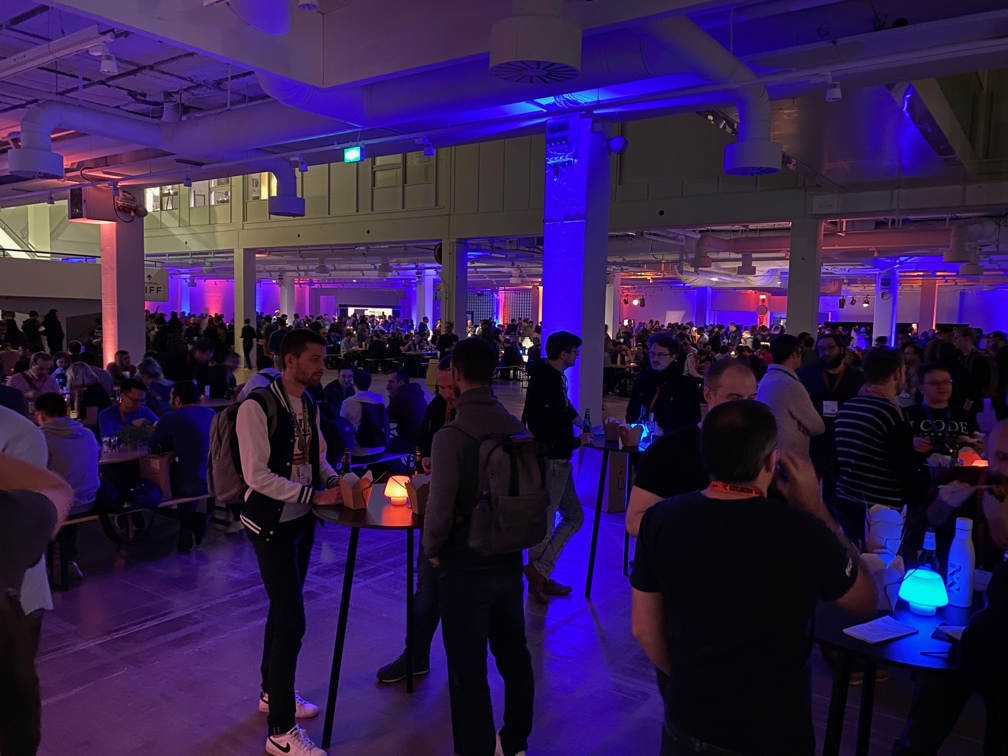
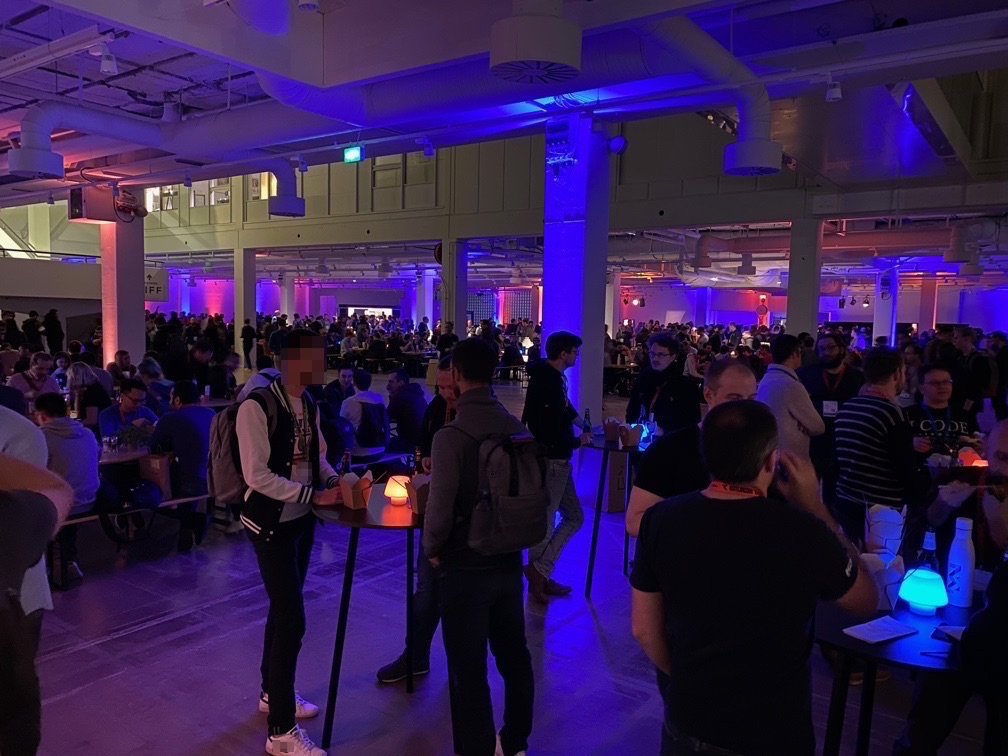
Fine-tuning drafts Added pictures Blurred green lanyard guy Added myself as article author Updated my author description

diff --git a/_posts/2019-12-05-KotlinConf-2019.md b/_posts/2019-12-05-KotlinConf-2019.md
@@ -1,6 +1,6 @@
 ---
 layout: post
-authors: [yannick_de_turck, pieter_van_hees]
+authors: [yannick_de_turck, jeroen_meys, pieter_van_hees]
 title: 'KotlinConf 2019'
 image: /img/kotlinconf-2019/kotlinconf-2019.png
 tags: [KotlinConf, Kotlin, Android, Coroutines, Conference, Serverless]
@@ -9,9 +9,9 @@ comments: true
 ---
 
 > KotlinConf is thé conference to visit if you're into Kotlin development.
-> JetBrains introduced KotlinConf the first time in 2017, in San Francisco with over 1.200 participants and 50 speakers.
-> In 2018 it was hosted in Amsterdam with 1.300 participants and 60 speakers.
-> This year the conference was to be hosted in Denmark's Copenhagen, in Bella Center. Scandinavia's largest conference center.
+> JetBrains introduced KotlinConf in 2017, in San Francisco with over 1.200 participants and 50 speakers.
+> In 2018 it took place in Amsterdam with 1.300 participants and 60 speakers.
+> This year the conference was hosted in Denmark's Copenhagen, at the Bella Center, Scandinavia's largest conference center.
 > Five colleagues of Ordina Belgium's JWorks unit were very enthusiastic to attend the conference for the first time.
 
 <img class="image fit" src="{{ '/img/kotlinconf-2019/kotlinconf-entrance.jpg' | prepend: site.baseurl }}" alt="JWorks @ KotlinConf" />
@@ -262,7 +262,7 @@ You will learn how to set up your IDE, starting your Ktor application, and routi
 ## New product announcement by [Hadi Hariri](https://twitter.com/hhariri){:target="_blank" rel="noopener noreferrer"}, [Maxim Shafirov](new-product-announcement-by-maxim-shafirov-and-maarten-balliauw){:target="_blank" rel="noopener noreferrer"} and [Maarten Balliauw](https://twitter.com/maartenballiauw){:target="_blank" rel="noopener noreferrer"}
 <img class="image fit" src="{{ '/img/kotlinconf-2019/special-announcement-1-intro.jpg' | prepend: site.baseurl }}" alt="Intro" />
 At the end of the first day it was time to announce JetBrains' newest product!
-<span class="image right"><img class="p-image" style="max-width: 200px" alt="Maxim Shafirov" src="/img/kotlinconf-2019/maxim-shafirov.png"></span>
+<span class="image right"><img class="p-image" style="max-width: 200px" alt="Maxim Shafirov" src="/img/kotlinconf-2019/maxim-shafirov.jpg"></span>
 
 Everything started with a ticket created 15 years ago by Maxim Shafirov, the CEO of JetBrains.
 The ticket was about a request to improve collaboration between teams.
@@ -515,32 +515,42 @@ For UI tests Selenium is used with [Allure](http://allure.qatools.ru){:target="_
 TODO
 
 ## What the F(p) is Kotlin? by [Shelby Cohen](https://twitter.com/shelbyc0hen){:target="_blank" rel="noopener noreferrer"} and [Katie Levy](https://twitter.com/klevy110){:target="_blank" rel="noopener noreferrer"}
+
+<img class="image fit" src="{{ '/img/kotlinconf-2019/fp_kotlin_intro.JPG' | prepend: site.baseurl }}" alt="Used libraries" />
+
+<span class="image left"><img class="p-image" style="max-width: 200px" alt="Shelby Cohen" src="/img/kotlinconf-2019/shelby_cohen.jpeg"></span>
+<span class="image right"><img class="p-image" style="max-width: 200px" alt="Katie Levy" src="/img/kotlinconf-2019/katie_levy.jpeg"></span>
+
 Shelby Cohen and Katie Levy shared with us the story of how they managed to introduce functional programming via Kotlin into their organisation.
 
-They presented an 8-step guide on how to influence colleagues and thus Intuit to adopt Kotlin:
+<img class="image fit" src="{{ '/img/kotlinconf-2019/fp_kotlin_goal.JPG' | prepend: site.baseurl }}" alt="Used libraries" />
+
+They presented an 8-step guide on how to influence colleagues and your company to adopt Kotlin based on their experience at [Intuit](https://www.intuit.com/):
+
 ### Find your Passion
 Find something you want to be passionate about. In this case, it's Kotlin.
+
 ### Socialize
-Share you passion with other people.
+Share your passion with other people.
 Try to find some things you like about Kotlin - or anything new for that matter - and tell about it to your colleagues.
 Give some examples on how Kotlin removes ceremony compared to Java.
-Spread the word on how Kotlin has null-safety built in the type system.
+Spread the word on how Kotlin has null-safety built into the type system.
 
 ### Proof of Concept
-Don't only talk about Kotlin. Put the deed to the word and have something to show to your peers.
+Don't only talk about your passion. Do as you preach and have something to show to your peers.
 Develop a new feature and have it reviewed and discussed by the others.
-This should open the discussion with seniors developers and architects on whether the new technology should be embraced, put on hold or avoided.
-Having a POC and other developers on board tends to help this conversation.
+This should power the discussion with seniors developers and architects on whether the new technology should be adopted, put on hold or avoided.
+Having a [POC](https://en.wikipedia.org/wiki/Proof_of_concept) and other developers on board helps this conversation.
 
 ### Create a Plan
-The light is green and you are allowed to switch to Kotlin. 
-But other developers will still be hesitant in their Kotlin skills.
-Katie and Shelby put together a plan to migrate to make the switch from Java.
-The provided online training to teach the basic features of Kotlin.
-This increased the confidence and comfort of the team to make the jump.
+The light is green and you are allowed to make the switch. 
+But other developers will still feel insecure about their Kotlin skills.
+Katie and Shelby put together a plan to migrate from Java.
+The provided online training courses to teach some basic features which helped the onboarding.
+This increased the comfort and confidence of the team to make the jump.
 
 By setting goals, they were able to switch at a comfortable pace:
-- Starting with migrating and writing Kotlin tests which don't impact production code
+- Start with migrating and writing Kotlin tests which don't impact production code
 - Migrate easy wins such as data classes
 - Only then start adding new features in Kotlin
 
@@ -553,7 +563,7 @@ Try to provide feedback but watch out to not push learners too much.
 Some Kotlin code will look a bit Java-y at first, but this will improve overtime.
 
 ### Persuade with Data
-The other engineers on the team might not (yet) share your passion of Kotlin, so use some data to persuade them even more.
+The other engineers on the team might not (yet) share your passion for Kotlin, so use some data to persuade them even more.
 Some numbers that can be used:
 - [Kotlin uses 40% less lines of code than Java](https://kotlinlang.org/docs/reference/faq.html#what-advantages-does-kotlin-give-me-over-the-java-programming-language)
 - More concise code takes less time to write and less time to read
@@ -562,23 +572,26 @@ Some numbers that can be used:
 - [4th Most loved language on the 2019 Stack Overflow Developer Survey](https://insights.stackoverflow.com/survey/2019#technology-_-most-loved-dreaded-and-wanted-languages)
 
 ### Deconstruct Myths
-Even with all this data, there are still some myths that exist concerning Kotlin which you do not want to spread.
-Shelby and Katie broke down these myths in a [technical whitepaper](https://www.intuit.com/blog/uncategorized/kotlin-development-plan/) which they talk about on [Medium](https://medium.com/@srcohen1/kotlin-development-plan-5141087eaef0).
- 
+Even with all this data, there are still some myths that exist concerning the language which you do not want to see spread around.
+Shelby and Katie broke down these myths in a [technical white paper](https://www.intuit.com/blog/uncategorized/kotlin-development-plan/) which they talk about on [Medium](https://medium.com/@srcohen1/kotlin-development-plan-5141087eaef0).
+During the closing keynote of the conference, Max Shafirov (Jetbrains CEO) also proposed to make an official white paper to help companies migrate.
+
 ### Can't stop, Won't Stop
 At this point, the team was on board, the train started going full-speed. 
-This is when they started a learning community to get other teams on board and to spread the word.
+This is when they started a learning community to get other teams on board to spread the word.
 They would give presentations, do live coding and code reviews to help others get started too.
 
 ### Connect with Larger Community
 Kotlin has an amazing community, which allows you to grow even further.
-Katie mentions working on an [OpenSource project](https://github.com/intuit/truffle-shuffle), attending conferences and [podcasts](https://talkingkotlin.com/). 
+Katie mentions working on an Intuit [OpenSource project](https://github.com/intuit/truffle-shuffle), attending conferences and [podcasts](https://talkingkotlin.com/). 
 
-# <TODO: jeroen talk about arrow-kt.io>
-Functional programming is easier in Kotlin because functions are so called first-class citizens.
-They use a third party library called [arrow-kt.io](https://arrow-kt.io) to enhance the functional capabilities of the language.
-This is similar to the [Vavr](https://www.vavr.io/) library for Java developers.
-It adds operations such as 
+### Why Functional Programming
+Functional programming is a programming paradigm where computations are treated as mathematical functions.
+Shared state and mutable data are avoided which improved the quality of the codebase.
+It is also very helpful for multithreaded workloads.
+Functional programming is easier in Kotlin because functions are so called [first-class](https://en.wikipedia.org/wiki/First-class_function) citizens.
+A good third party library which enhances the functional capabilities is [arrow-kt.io](https://arrow-kt.io).
+It is similar to the [Vavr](https://www.vavr.io/) library for Java developers but with the benefits of the Kotlin idioms.
 
 ## The state of Kotlin/JS by [Sebastian Aigner](https://twitter.com/TrueSebi){:target="_blank" rel="noopener noreferrer"}
 TODO
@@ -602,8 +615,13 @@ TODO (Michael)
 TODO
 
 ## The state of Kotlin support in Spring by [Sebastien Deleuze](https://twitter.com/sdeleuze){:target="_blank" rel="noopener noreferrer"}
+
+<img class="image fit" src="{{ '/img/kotlinconf-2019/state_of_kotlin_in_spring.jpg' | prepend: site.baseurl }}" alt="Used libraries" />
+
 Big kuddos for Sébastien Deleuze for thinking about the environment. He took a train from France to Copenhagen to lower his CO2 emissions.
 Even though his train got hit by a boar, he still managed to give us an update about the current state of Kotlin support in the Spring ecosystem.
+
+<img class="image fit" src="{{ '/img/kotlinconf-2019/state_of_kotlin_in_spring_train.jpg' | prepend: site.baseurl }}" alt="Used libraries" />
 
 ### Why Kotlin for Spring?
 Sébastien explained that Kotlin has less noise than Java.
@@ -614,21 +632,26 @@ Kotlin also has a lot of traction in the Android ecosystem, which might end up c
 
 ### Spring ♥ Kotlin
 All the Spring Framework reference documentation now has Kotlin code examples (since Spring 5.2).
-The examples have not been cut and paste from Java but they also take in to account the Kotlin idioms and DSLs.
+
+<img class="image fit" src="{{ '/img/kotlinconf-2019/state_of_kotlin_in_spring_documentation_status.jpg' | prepend: site.baseurl }}" alt="Used libraries" />
+
+The new examples have not been cut and paste from Java but they also take in to account the Kotlin idioms and DSLs.
 Reference documentation for Spring Boot and Spring Security are estimated for next year.
 The Spring Data documentation might take a little longer as it is a rather big project.
 
-Since a few months, the [Spring Initializer](https://start.spring.io) project also supports Gradle with Kotlin DSL.
+Since a few months, the [Spring Initializer](https://start.spring.io) project also supports Gradle with Kotlin [DSL](https://en.wikipedia.org/wiki/Domain-specific_language).
 
 Kotlin allows for nice DSLs.
 This is reflected in the number of new DSLs in Spring.
-* MockMVC DSL by Clint Checketts and JB Nizet
-* Spring Cloud Contract DSL by Tim Ysewyn
-* [Spring Security DSL](https://github.com/spring-projects-experimental/spring-security-kotlin-dsl) by Eleftheria Stein
+* MockMVC DSL by [Clint Checketts](https://twitter.com/checketts) and [JB Nizet](https://twitter.com/jbnizet)
+* Spring Cloud Contract DSL by [Tim Ysewyn](https://twitter.com/tysewyn)
+* [Spring Security DSL](https://github.com/spring-projects-experimental/spring-security-kotlin-dsl) by [Eleftheria Stein](https://github.com/eleftherias)
+
     Developed by the Spring Security team but still experimental.
     This will be shipped with the Spring Security library somewhere next year.
 * Spring MVC DSL and functional API
-    * Router DSL is now available for both Spring MVC and Spring WebFlux. A quick example:
+    The Router DSL is now available for both Spring MVC and Spring WebFlux.
+    A quick example:
     
 ```kotlin
 @Configuration
@@ -645,7 +668,7 @@ class RoutesConfiguration {
 ```
 
 The routes can also be created dynamically, which means that routes can be constructed from data.
-The overall Kotlin DSLs status is shown in the following picture
+The overall Kotlin DSLs status is shown in the following picture:
 
 <img class="image fit" src="{{ '/img/kotlinconf-2019/kotlin-dsl-status.jpg' | prepend: site.baseurl }}" alt="Used libraries" />
 
@@ -662,7 +685,7 @@ Coroutines are a new way to consume the reactive stack and have following charac
     It is interoperable with Reactive Streams and has support for backpressure.
 
 ### Spring Boot
-There is now support for loading `val`s from properties without using lateinit.
+There is now support for loading `val`s from properties without using `lateinit`.
 This means the following code:
 
 ```kotlin
